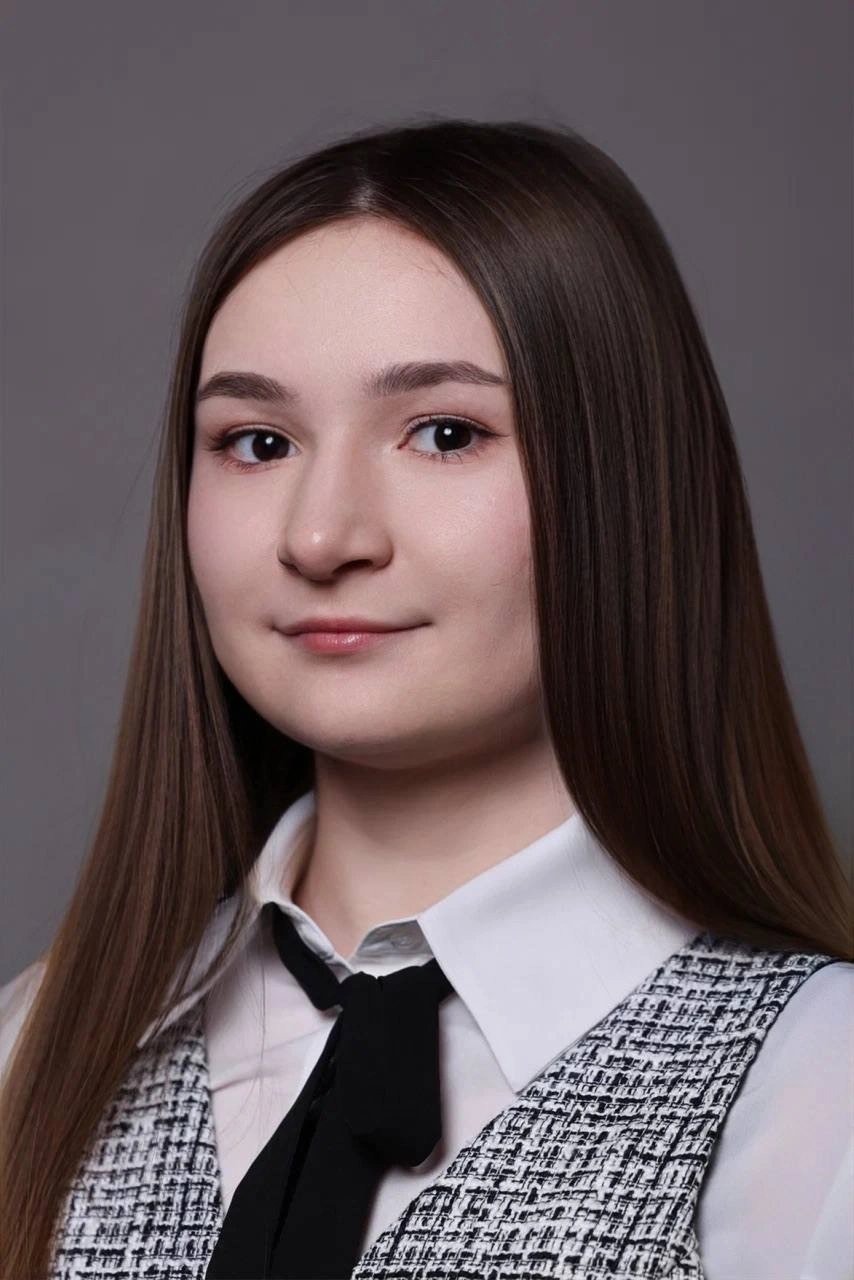
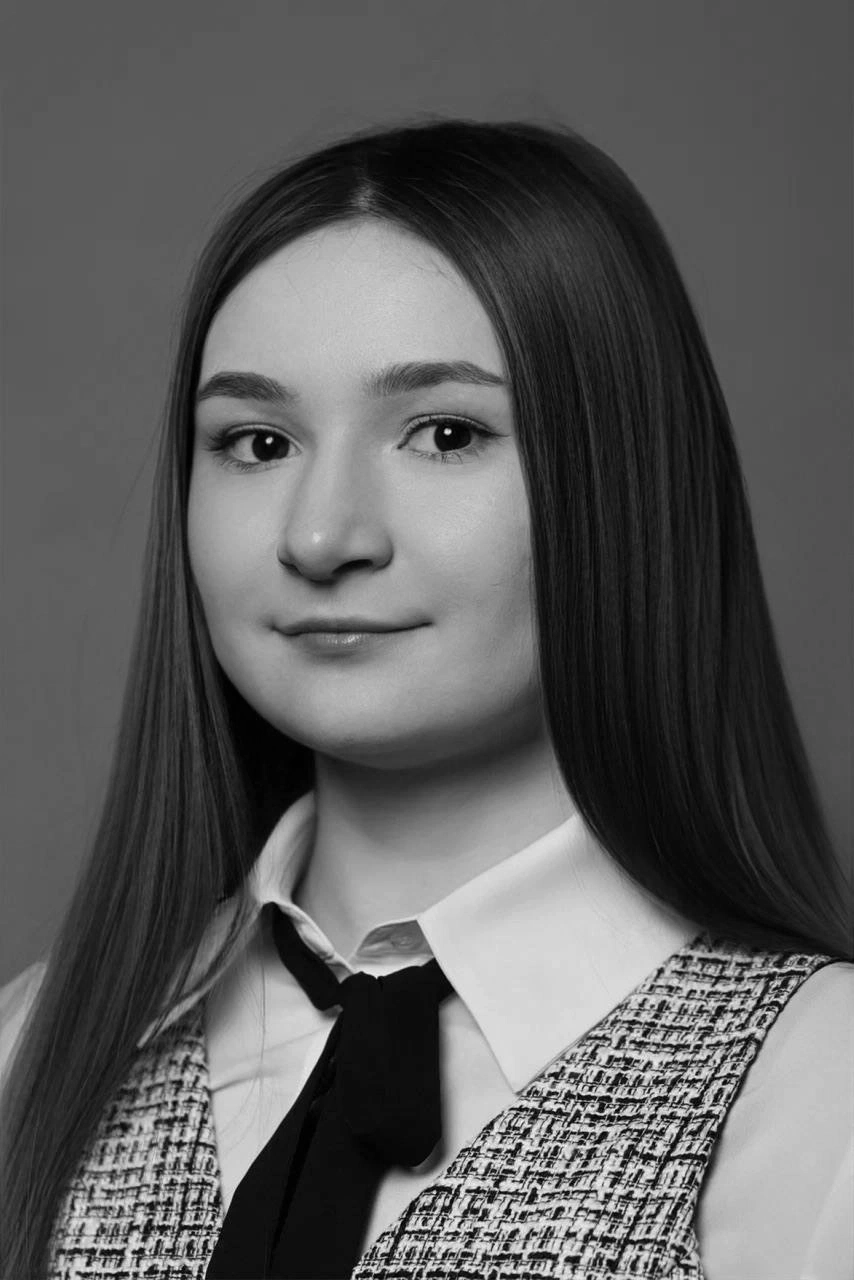
PRO-716 добавила адптив

diff --git a/src/client/pages/unauthorized/Landing/components/Team/styles.module.scss b/src/client/pages/unauthorized/Landing/components/Team/styles.module.scss
@@ -19,30 +19,32 @@ h3.title {
 }
 
 .team {
-  display: grid;
+  display: flex;
+  flex-wrap: wrap;
   max-width: 1500px;
   padding: 40px;
   gap: 50px 20px;
-  grid-template-columns: repeat(4, 1fr);
+  justify-content: flex-start;
 }
 
 .teamMember {
   display: flex;
-  min-width: 200px;
+  width: 247px;
+  flex: 0 0 auto;
   flex-flow: column;
   gap: 20px;
 }
 
 .teamMemberPhotoContainer {
   overflow: hidden;
-  min-width: 200px;
+  width: 247px;
+  height: 339px;
   border-radius: 12px;
 }
 
 .teamMemberPhoto {
   width: 100%;
   height: 100%;
-  min-height: 400px;
   object-fit: cover;
 }
 
@@ -59,4 +61,62 @@ h3.title {
 
 .teamMemberRole {
   color: $color-black100;
+}
+
+@media (width <= 1160px) {
+  .team {
+    justify-content: center;
+  }
+}
+
+@media (width <= 900px) {
+  h3.title {
+    margin-left: 30px;
+    font-size: 36px;
+    line-height: 40px;
+  }
+  
+  .team {
+    gap: 40px 20px;
+  }
+
+  .teamMember {
+    width: 200px;
+  }
+  
+  .teamMemberPhotoContainer {
+    width: 200px;
+    height: 275px;
+  }
+  
+  .teamMemberInfo {
+    width: 200px;
+  }
+}
+
+@media (width <= 768px) {
+  .team {
+    padding: 30px;
+    gap: 30px 15px;
+  }
+  
+  h3.title {
+    margin-top: 30px;
+    margin-left: 30px;
+    font-size: 32px;
+    line-height: 36px;
+  }
+  
+  .teamMember {
+    width: 180px;
+  }
+  
+  .teamMemberPhotoContainer {
+    width: 180px;
+    height: 247px;
+  }
+  
+  .teamMemberInfo {
+    width: 180px;
+  }
 }

diff --git a/src/client/pages/unauthorized/Landing/components/Header/components/NavBar/styles.module.scss b/src/client/pages/unauthorized/Landing/components/Header/components/NavBar/styles.module.scss
@@ -5,8 +5,68 @@
   display: flex;
   align-items: center;
   gap: 20px;
+
+  @media screen and (width <= 900px) {
+    position: fixed;
+    z-index: 100;
+    right: 16px;
+    bottom: 6px;
+    left: 16px;
+    height: 75px;
+    padding: 12px;
+    border-radius: 75px;
+    background-color: $color-white100;
+    gap: 10px;
+  }
 }
 
 .navLink {
   min-width: 112px;
+
+  &.active {
+    background-color: $color-blue80;
+    color: $color-white100;
+
+    @media screen and (width <= 900px) {
+      background-color: $color-white70;
+      color: $color-blue80;
+    }
+  }
+
+  @media screen and (width <= 900px) {
+    display: flex;
+    width: 100%;
+    min-width: auto;
+    height: 100%;
+    flex-flow: column;
+    align-items: center;
+    justify-content: center;
+    padding: 4px;
+    border-radius: 50px;
+    background-color: transparent;
+    color: $color-black100;
+    gap: 5px;
+
+    @include bodySBold;
+  }
+}
+
+.iconWrapper {
+  display: none;
+  width: 62px;
+  height: 32px;
+  align-items: center;
+  justify-content: center;
+  border-radius: 16px;
+
+  & svg,
+  path {
+    width: 24px;
+    height: 24px;
+    fill: currentcolor;
+  }
+
+  @media screen and (width <= 900px) {
+    display: flex;
+  }
 }

diff --git a/src/client/pages/unauthorized/Landing/components/Advantages/styles.module.scss b/src/client/pages/unauthorized/Landing/components/Advantages/styles.module.scss
@@ -70,37 +70,34 @@ h2.title {
   gap: 20px;
 }
 
-@media (width <= 1024px) {
+@media (width <= 1025px) {
   .infoSection {
     grid-template-columns: 1fr;
   }
-
+  
   .imageSide {
-    order: -1;
-    margin-bottom: 20px;
+    display: none;
   }
-
-  .phoneImage {
-    min-height: 400px;
-  }
-
-  .info {
+  
+  .textSide {
     padding: 30px;
   }
 }
 
 @media (width <= 768px) {
-  .phoneImage {
-    min-height: 300px;
+  h2.title {
+    font-size: 28px;
+    line-height: 32px;
   }
-}
-
-h2.title {
-  font-size: 28px;
-  line-height: 32px;
-}
-
-.info {
-  padding: 20px;
-  border-radius: 30px;
+  
+  .textSide {
+    padding: 20px;
+    border-radius: 30px;
+  }
+  
+  .infoList {
+    font-size: 20px;
+    line-height: 26px;
+    gap: 20px;
+  }
 }

diff --git a/src/shared/data/team.ts b/src/shared/data/team.ts
@@ -1,6 +1,6 @@
 import { type StaticImageData } from "next/image";
 import AlexanderPak from "@/client/assets/webp/team/AlexanderPak.webp";
-import AlinaTisheva from "@/client/assets/webp/team/AlinaTishaeva.webp";
+import AlinaTisheva from "@/client/assets/webp/team/AlinaTishaeva1.webp";
 import DaniilKostin from "@/client/assets/webp/team/DaniilKostin.webp";
 import DmitryBespalov from "@/client/assets/webp/team/DmitryBespalov.webp";
 import IlyaFomin from "@/client/assets/webp/team/IlyaFomin.webp";

diff --git a/src/client/pages/unauthorized/Landing/components/Advantages/components/Addition/styles.module.scss b/src/client/pages/unauthorized/Landing/components/Advantages/components/Addition/styles.module.scss
@@ -41,8 +41,27 @@
   line-height: 30px;
 }
 
-@media (width <= 768px) {
-  .gridContainer {
+@media (width <= 1025px) {
+  .container {
     grid-template-columns: 1fr;
+  }
+  
+  .image {
+    display: none;
+  }
+  
+  .textContent {
+    padding: 40px;
+  }
+}
+
+@media (width <= 768px) {
+  .textContent {
+    padding: 30px;
+  }
+  
+  .description {
+    font-size: 20px;
+    line-height: 26px;
   }
 }

diff --git a/src/client/pages/unauthorized/Landing/components/Header/styles.module.scss b/src/client/pages/unauthorized/Landing/components/Header/styles.module.scss
@@ -7,6 +7,17 @@
   align-items: center;
   justify-content: center;
   margin-bottom: 100px;
+
+  @media screen and (width <= 900px) {
+    position: fixed;
+    z-index: 100;
+    top: 0;
+    right: 0;
+    left: 0;
+    border-radius: 0;
+    margin: 0;
+    background-color: $color-white100;
+  }
 }
 
 .container {

diff --git a/src/client/pages/unauthorized/Landing/components/Hero/styles.module.scss b/src/client/pages/unauthorized/Landing/components/Hero/styles.module.scss
@@ -48,4 +48,8 @@ h3.title {
   background-position: 90% center;
   background-repeat: no-repeat;
   background-size: contain;
+  
+  @media (max-width: 1024px) {
+    background-position: 90% top;
+  }
 }
